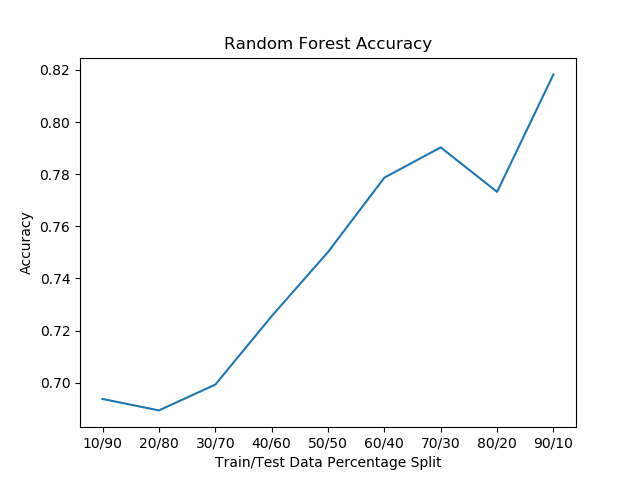
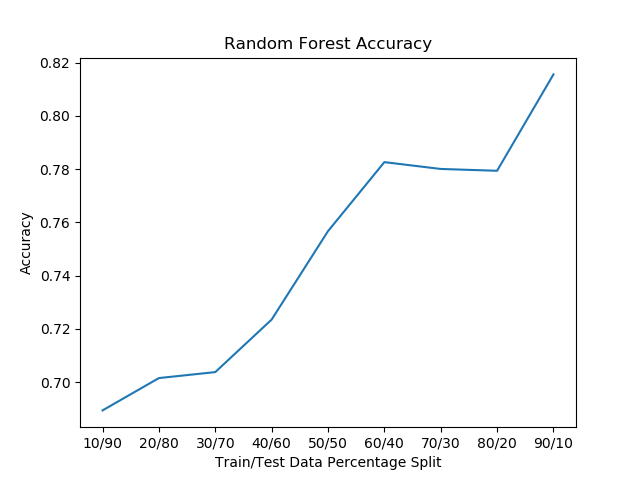
Added Multiprocessing where applicable and added Multinomial Naive Bayes model analysis with a comparative chart of all models

diff --git a/generateModels.py b/generateModels.py
@@ -3,15 +3,16 @@ from pathlib import Path
 from sklearn.feature_extraction.text import CountVectorizer
 from sklearn.linear_model import LogisticRegression
 from sklearn.ensemble import RandomForestClassifier
-from sklearn.naive_bayes import GaussianNB
+from sklearn.naive_bayes import GaussianNB, MultinomialNB
 from numpy import arange, split
 from collections import OrderedDict
 from matplotlib import pyplot
 
 def main():
-    models = OrderedDict([('Logisitic Regression', LogisticRegression()), ('Random Forest', RandomForestClassifier()), 
-                          ('Gaussian Naive Bayes', GaussianNB())])
+    models = OrderedDict([('Logisitic Regression', LogisticRegression()), ('Random Forest', RandomForestClassifier(n_jobs = -1)), 
+                          ('Gaussian Naive Bayes', GaussianNB()), ('Multinomial Naive Bayes', MultinomialNB())])
     modelAccuracies = OrderedDict()
+    modelXvals = None
     dataFile = Path('Data/Tweets.csv')
     data = read_csv(dataFile)
     vectorizer = CountVectorizer()
@@ -39,6 +40,15 @@ def main():
         pyplot.savefig('Model Results/{} Accuracy.png'.format(key))
         figCount += 1
         print('Finished {} analysis'.format(key))
+    figCount += 1
+    pyplot.figure(figCount)
+    pyplot.ylabel('Accuracy')
+    pyplot.xlabel('Train/Test Data Percentage Split')
+    pyplot.title('Comparative Accuracy of All Models')
+    for modelName, accuracy in modelAccuracies.items():
+        pyplot.plot(accuracy.keys(), accuracy.values(), label = modelName)
+    pyplot.legend()
+    pyplot.savefig('Model Results/Comparative Accuracy.png')
 
 if __name__ == '__main__':
     main()
